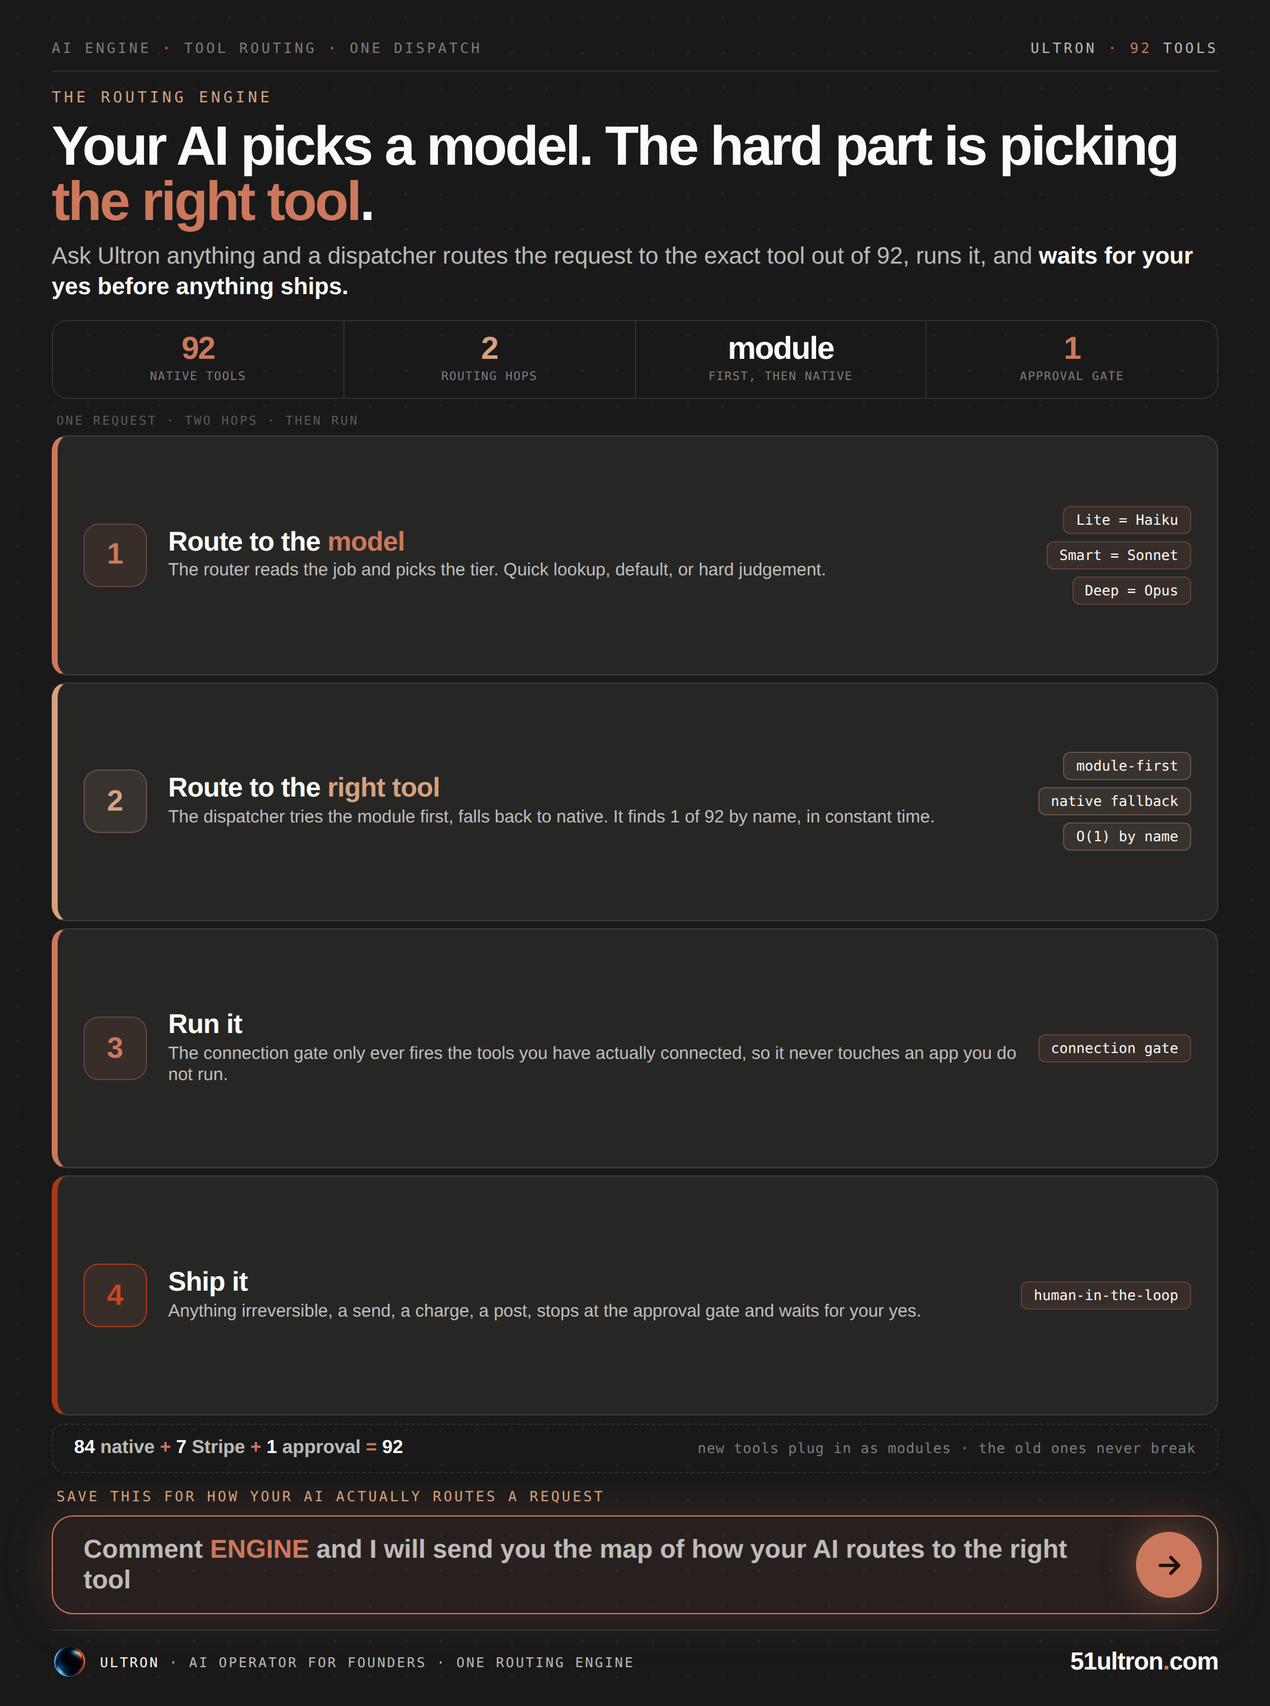
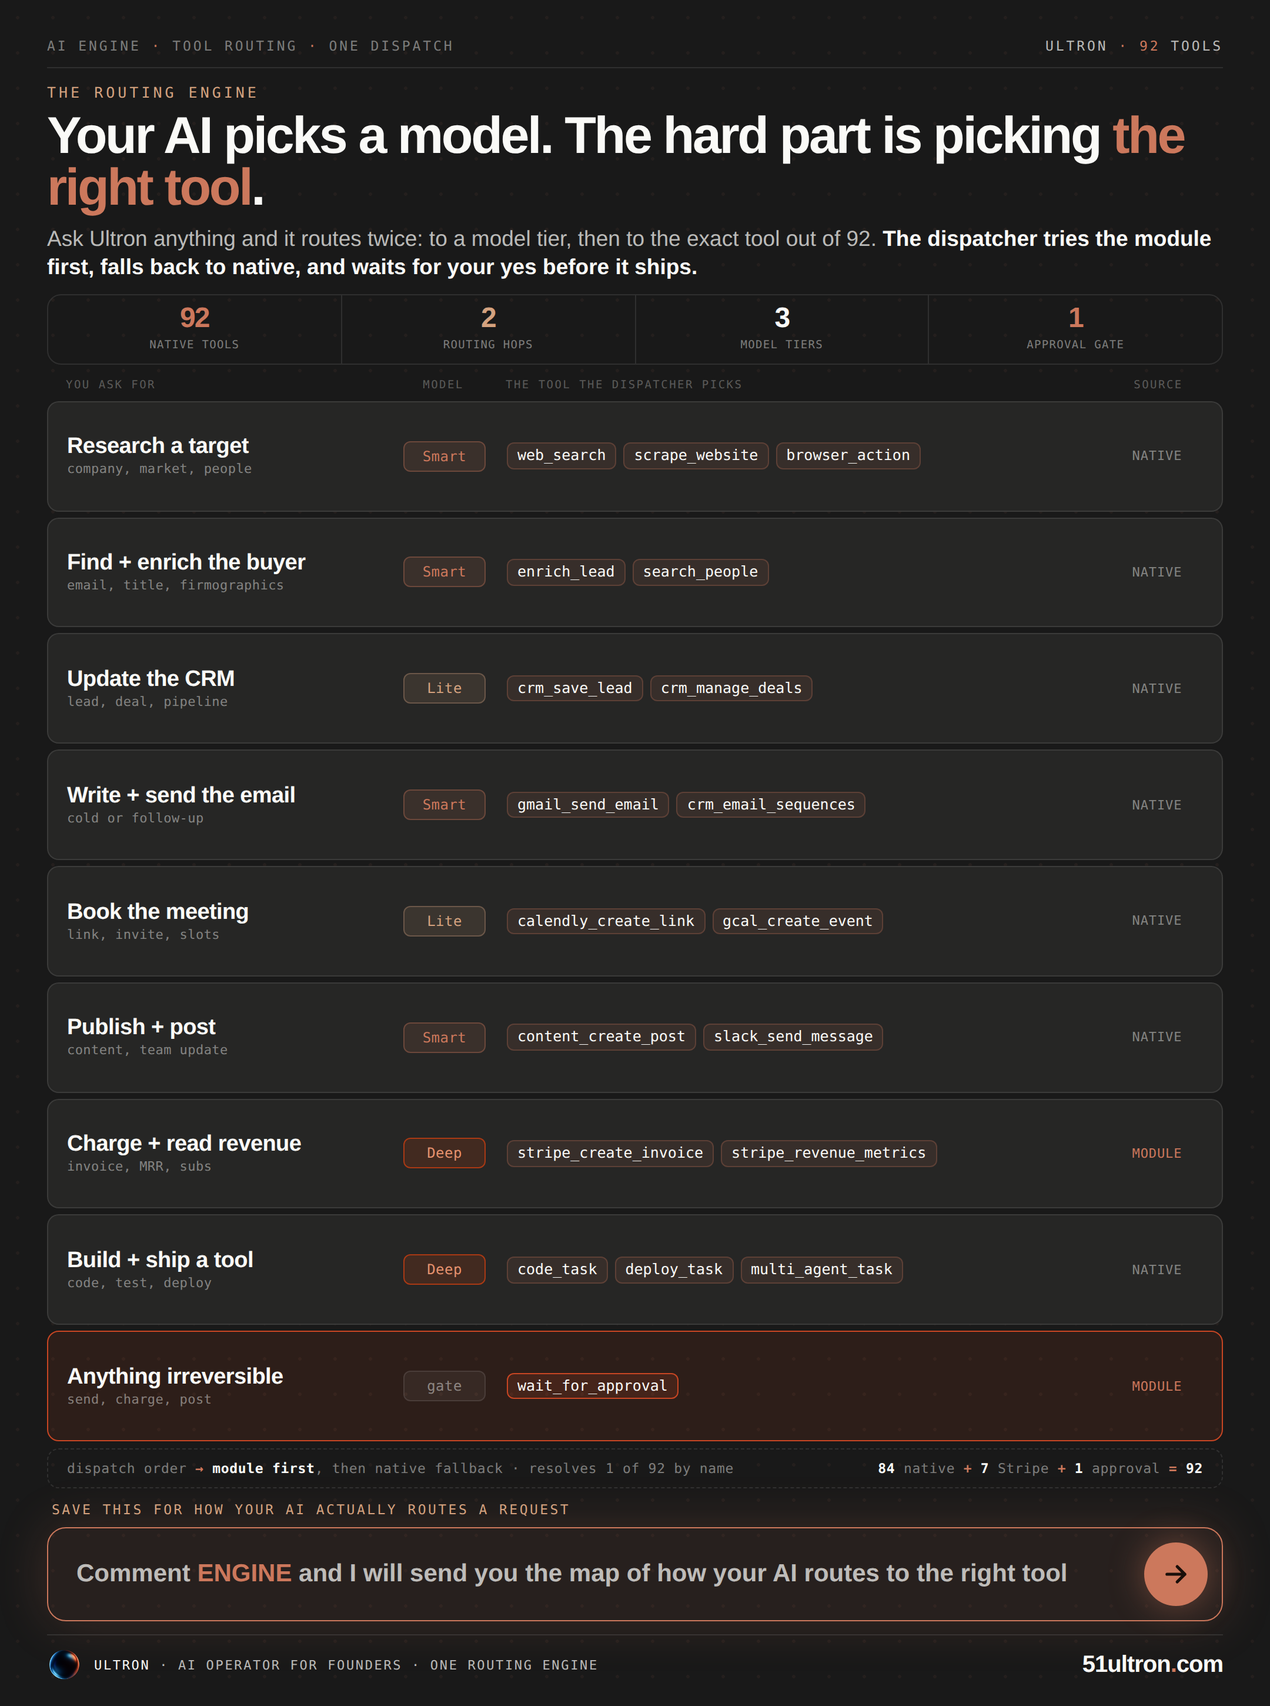
tool-engine: denser LinkedIn rebuild (packed 9-row routing table) + ALT sync

diff --git a/content/tool-engine-linkedin.html b/content/tool-engine-linkedin.html
@@ -2,61 +2,63 @@
 <title>The routing engine - LinkedIn 1080x1450</title>
 <style>
 @import 'https://fonts.googleapis.com/css2?family=DM+Sans:opsz,wght@9..40,400;9..40,500;9..40,600;9..40,700;9..40,800;9..40,900&family=DM+Mono:wght@400;500&display=swap';
-/* tool-engine - applies the best-performer formula (post 7473683676527071232: "Your AI tool sends your
-   prompt to a model" - 35 comments, hidden-mechanic hook + comment CTA). Topic = the NEXT layer of that
-   engine: tool routing. Your request -> a model -> the RIGHT tool of 92 (dispatcher: module-first, native
-   fallback) -> run (connection gate) -> ship (approval gate). Dense single-image reach-lane infographic.
-   Ultron brand. 1080x1450. BUDGET 1394: mast 28 + hero 196 + stats 70 + pipe 880 + cta 96 + ftr 50 */
-:root{--slate:#191919;--slate2:#262625;--ivory:#FAFAF7;--ink70:rgba(250,250,247,.72);--ink46:rgba(250,250,247,.46);
+/* tool-engine v2 - DENSE rebuild (v1 was airy: 4 tall pipeline cards). Dominant = a packed 9-row routing
+   table: you ask -> model tier (Lite/Smart/Deep) -> the exact tool the dispatcher picks -> module/native.
+   Every cell real. Applies the best-performer formula (hidden-mechanic hook + ENGINE comment CTA).
+   Ultron brand. 1080x1450. BUDGET 1394: mast 28 + hero 168 + stats 66 + table 936 + cta 92 + ftr 50 */
+:root{--slate:#191919;--slate2:#262625;--slate3:#2f2e2c;--ivory:#FAFAF7;--ink70:rgba(250,250,247,.72);--ink46:rgba(250,250,247,.46);
 --ink30:rgba(250,250,247,.30);--ink14:rgba(250,250,247,.14);--rule:rgba(250,250,247,.10);
 --book:#CC785C;--book-d:#C84623;--kraft:#D4A27F;--deep:#A93914;--cloud:#919180;}
 *{box-sizing:border-box;margin:0;padding:0;}
 body{background:#0d0d0d;display:flex;justify-content:center;padding:24px 0;font-family:'DM Sans',sans-serif;-webkit-font-smoothing:antialiased;}
-.frame{width:1080px;height:1450px;background:var(--slate);padding:34px 44px 22px;position:relative;overflow:hidden;color:var(--ivory);display:flex;flex-direction:column;}
+.frame{width:1080px;height:1450px;background:var(--slate);padding:32px 40px 20px;position:relative;overflow:hidden;color:var(--ivory);display:flex;flex-direction:column;}
 .frame::before{content:'';position:absolute;inset:0;pointer-events:none;z-index:0;background-image:radial-gradient(rgba(204,120,92,.06) 1.4px,transparent 1.5px);background-size:30px 30px;}
 .atm{position:absolute;inset:0;pointer-events:none;z-index:1;background:radial-gradient(ellipse 54% 22% at 90% -2%,rgba(204,120,92,.2) 0%,transparent 60%),radial-gradient(ellipse 48% 24% at 2% 102%,rgba(212,162,127,.1) 0%,transparent 60%);}
 .frame>*{position:relative;z-index:2;}
-.mast{flex-shrink:0;display:flex;align-items:center;justify-content:space-between;padding-bottom:12px;border-bottom:1px solid var(--rule);font-family:'DM Mono',monospace;font-size:12px;font-weight:500;letter-spacing:.18em;text-transform:uppercase;}
+.mast{flex-shrink:0;display:flex;align-items:center;justify-content:space-between;padding-bottom:11px;border-bottom:1px solid var(--rule);font-family:'DM Mono',monospace;font-size:11.5px;font-weight:500;letter-spacing:.17em;text-transform:uppercase;}
 .mast .ml{color:var(--ink46);}.mast .ml em{color:var(--book);font-style:normal;}
 .mast .mr{color:var(--ink70);}.mast .mr em{color:var(--book);font-style:normal;}
-.hero{flex-shrink:0;margin-top:15px;}
-.eye{font-family:'DM Mono',monospace;font-size:13px;font-weight:500;letter-spacing:.2em;text-transform:uppercase;color:var(--kraft);}
-.hook{margin-top:9px;font-weight:900;font-size:47px;line-height:1.0;letter-spacing:-1.8px;color:var(--ivory);}.hook em{color:var(--book);font-style:normal;}
-.sub{margin-top:11px;font-size:20px;font-weight:500;line-height:1.32;color:var(--ink70);max-width:986px;}.sub b{color:var(--ivory);font-weight:700;}
-.stats{flex-shrink:0;margin-top:14px;display:flex;border:1px solid var(--rule);border-radius:13px;overflow:hidden;}
-.stat{flex:1;padding:12px 14px;text-align:center;}.stat+.stat{border-left:1px solid var(--rule);}
-.stat b{display:block;font-weight:900;font-size:27px;line-height:.85;letter-spacing:-1px;}
+.hero{flex-shrink:0;margin-top:13px;}
+.eye{font-family:'DM Mono',monospace;font-size:12.5px;font-weight:500;letter-spacing:.2em;text-transform:uppercase;color:var(--kraft);}
+.hook{margin-top:8px;font-weight:900;font-size:44px;line-height:1.0;letter-spacing:-1.7px;color:var(--ivory);}.hook em{color:var(--book);font-style:normal;}
+.sub{margin-top:9px;font-size:18.5px;font-weight:500;line-height:1.28;color:var(--ink70);max-width:1000px;}.sub b{color:var(--ivory);font-weight:700;}
+.stats{flex-shrink:0;margin-top:12px;display:flex;border:1px solid var(--rule);border-radius:12px;overflow:hidden;}
+.stat{flex:1;padding:10px 12px;text-align:center;}.stat+.stat{border-left:1px solid var(--rule);}
+.stat b{display:block;font-weight:900;font-size:24px;line-height:.85;letter-spacing:-1px;}
 .stat.a b{color:var(--book);}.stat.b b{color:var(--kraft);}.stat.c b{color:var(--ivory);}.stat.d b{color:var(--book);}
-.stat span{font-family:'DM Mono',monospace;font-size:10px;font-weight:500;letter-spacing:.08em;text-transform:uppercase;color:var(--ink46);margin-top:7px;display:block;}
-/* DOMINANT: the 2-hop routing engine pipeline */
-.pipe{flex:1;min-height:0;margin-top:13px;display:flex;flex-direction:column;gap:6px;}
-.hopnote{flex-shrink:0;font-family:'DM Mono',monospace;font-size:10.5px;letter-spacing:.14em;text-transform:uppercase;color:var(--ink30);padding-left:4px;}
-.stg{flex:1;display:flex;align-items:center;gap:18px;border:1px solid var(--rule);border-left:5px solid var(--book);border-radius:13px;background:var(--slate2);padding:0 22px;min-height:0;overflow:hidden;}
-.stg.k{border-left-color:var(--kraft);}.stg.d{border-left-color:var(--deep);}
-.stg .num{flex-shrink:0;width:54px;height:54px;border-radius:13px;display:flex;align-items:center;justify-content:center;background:rgba(204,120,92,.1);border:1px solid rgba(204,120,92,.32);font-weight:900;font-size:25px;color:var(--book);}
-.stg.k .num{background:rgba(212,162,127,.1);border-color:rgba(212,162,127,.3);color:var(--kraft);}
-.stg.d .num{border-color:var(--deep);color:var(--book-d);}
-.stg .mid{flex:1;min-width:0;}
-.stg .t{font-size:23px;font-weight:800;color:var(--ivory);letter-spacing:-.4px;line-height:1.04;}
-.stg .t em{color:var(--book);font-style:normal;}.stg.k .t em{color:var(--kraft);}.stg.d .t em{color:var(--book-d);}
-.stg .d2{font-size:15px;font-weight:500;color:var(--ink70);margin-top:4px;line-height:1.22;}
-.stg .chips{flex-shrink:0;display:flex;flex-direction:column;gap:6px;align-items:flex-end;}
-.stg .chip{font-family:'DM Mono',monospace;font-size:12px;font-weight:500;color:var(--ivory);background:rgba(204,120,92,.1);border:1px solid rgba(204,120,92,.28);border-radius:6px;padding:5px 10px;line-height:1;white-space:nowrap;}
-.stg.k .chip{background:rgba(212,162,127,.1);border-color:rgba(212,162,127,.3);}
-.cat{flex-shrink:0;display:flex;align-items:center;justify-content:space-between;gap:14px;border:1px dashed var(--rule);border-radius:11px;padding:11px 18px;margin-top:1px;}
-.cat .ce{font-size:16px;font-weight:700;color:var(--ink70);}.cat .ce b{color:var(--ivory);font-weight:900;}.cat .ce em{color:var(--book);font-style:normal;font-weight:900;}
-.cat .cn{font-family:'DM Mono',monospace;font-size:12px;letter-spacing:.04em;color:var(--ink46);text-align:right;}
+.stat span{font-family:'DM Mono',monospace;font-size:9.5px;font-weight:500;letter-spacing:.07em;text-transform:uppercase;color:var(--ink46);margin-top:6px;display:block;}
+/* DENSE routing table */
+.rt{flex:1;min-height:0;margin-top:12px;display:flex;flex-direction:column;gap:5px;}
+.rth{flex-shrink:0;display:flex;align-items:center;gap:12px;padding:0 16px 3px;font-family:'DM Mono',monospace;font-size:9.5px;font-weight:500;letter-spacing:.13em;text-transform:uppercase;color:var(--ink30);}
+.c1{width:268px;flex-shrink:0;}.c2{width:82px;flex-shrink:0;text-align:center;}.c3{flex:1;min-width:0;}.c4{width:78px;flex-shrink:0;text-align:center;}
+.rtr{flex:1;display:flex;align-items:center;gap:12px;border:1px solid var(--rule);border-radius:10px;background:var(--slate2);padding:0 16px;min-height:0;overflow:hidden;}
+.rtr.gate{border-color:var(--book-d);background:rgba(200,70,35,.12);}
+.ask{width:268px;flex-shrink:0;font-size:19px;font-weight:800;color:var(--ivory);letter-spacing:-.3px;line-height:1.05;}
+.ask span{display:block;font-family:'DM Mono',monospace;font-size:11px;font-weight:400;color:var(--ink46);letter-spacing:.02em;margin-top:3px;text-transform:none;}
+.tier{width:82px;flex-shrink:0;display:flex;justify-content:center;}
+.tg{font-family:'DM Mono',monospace;font-size:12px;font-weight:500;padding:5px 0;width:70px;text-align:center;border-radius:6px;letter-spacing:.02em;}
+.tg.lite{color:var(--kraft);background:rgba(212,162,127,.12);border:1px solid rgba(212,162,127,.32);}
+.tg.smart{color:var(--book);background:rgba(204,120,92,.12);border:1px solid rgba(204,120,92,.34);}
+.tg.deep{color:#E5926F;background:rgba(169,57,20,.22);border:1px solid var(--deep);}
+.tg.none{color:var(--ink46);background:rgba(250,250,247,.05);border:1px solid var(--rule);}
+.tools{flex:1;min-width:0;display:flex;flex-wrap:wrap;gap:5px 6px;align-content:center;}
+.tt{font-family:'DM Mono',monospace;font-size:12.5px;font-weight:500;color:var(--ivory);background:rgba(204,120,92,.1);border:1px solid rgba(204,120,92,.26);border-radius:6px;padding:4px 8px;line-height:1;white-space:nowrap;}
+.rtr.gate .tt{background:rgba(200,70,35,.16);border-color:var(--book-d);}
+.src{width:78px;flex-shrink:0;text-align:center;font-family:'DM Mono',monospace;font-size:11px;font-weight:500;letter-spacing:.04em;text-transform:uppercase;}
+.src.nat{color:var(--ink46);}.src.mod{color:var(--book);}
+.disp{flex-shrink:0;display:flex;align-items:center;justify-content:space-between;gap:14px;border:1px dashed var(--rule);border-radius:10px;padding:9px 16px;margin-top:1px;font-family:'DM Mono',monospace;font-size:11.5px;letter-spacing:.03em;color:var(--ink46);}
+.disp b{color:var(--ivory);font-weight:700;}.disp em{color:var(--book);font-style:normal;font-weight:700;}
 /* cta */
-.ctawrap{flex-shrink:0;margin-top:13px;}
-.savel{font-family:'DM Mono',monospace;font-size:12px;font-weight:500;letter-spacing:.16em;text-transform:uppercase;color:var(--kraft);margin-bottom:9px;padding-left:4px;}
-.cta{display:flex;align-items:center;gap:16px;border:1.5px solid var(--book);border-radius:18px;background:rgba(204,120,92,.08);padding:13px 13px 13px 26px;box-shadow:0 0 44px rgba(204,120,92,.2);}
-.cta .ph{flex:1;font-size:22px;font-weight:600;color:var(--ink70);line-height:1.2;}.cta .ph b{color:var(--book);font-weight:900;}
-.cta .send{width:56px;height:56px;border-radius:50%;background:var(--book);flex-shrink:0;display:flex;align-items:center;justify-content:center;box-shadow:0 0 30px rgba(204,120,92,.45);}
-.cta .send svg{width:27px;height:27px;stroke:#1a0f0a;stroke-width:2.4;fill:none;stroke-linecap:round;stroke-linejoin:round;}
-.ftr{flex-shrink:0;margin-top:13px;padding-top:12px;border-top:1px solid var(--rule);display:flex;align-items:center;justify-content:space-between;gap:16px;}
-.fl2{display:flex;align-items:center;gap:11px;min-width:0;}.flogo{width:30px;height:30px;border-radius:50%;object-fit:cover;flex-shrink:0;}
-.ftx{font-family:'DM Mono',monospace;font-size:11.5px;font-weight:400;letter-spacing:.13em;text-transform:uppercase;color:var(--ink70);white-space:nowrap;}.ftx b{color:var(--ivory);font-weight:500;}
-.furl{font-weight:900;font-size:21px;letter-spacing:-.5px;color:var(--ivory);}.furl em{color:var(--book);font-style:normal;}
+.ctawrap{flex-shrink:0;margin-top:11px;}
+.savel{font-family:'DM Mono',monospace;font-size:11.5px;font-weight:500;letter-spacing:.15em;text-transform:uppercase;color:var(--kraft);margin-bottom:8px;padding-left:4px;}
+.cta{display:flex;align-items:center;gap:15px;border:1.5px solid var(--book);border-radius:16px;background:rgba(204,120,92,.08);padding:12px 12px 12px 24px;box-shadow:0 0 44px rgba(204,120,92,.2);}
+.cta .ph{flex:1;font-size:21px;font-weight:600;color:var(--ink70);line-height:1.2;}.cta .ph b{color:var(--book);font-weight:900;}
+.cta .send{width:54px;height:54px;border-radius:50%;background:var(--book);flex-shrink:0;display:flex;align-items:center;justify-content:center;box-shadow:0 0 30px rgba(204,120,92,.45);}
+.cta .send svg{width:26px;height:26px;stroke:#1a0f0a;stroke-width:2.4;fill:none;stroke-linecap:round;stroke-linejoin:round;}
+.ftr{flex-shrink:0;margin-top:11px;padding-top:11px;border-top:1px solid var(--rule);display:flex;align-items:center;justify-content:space-between;gap:16px;}
+.fl2{display:flex;align-items:center;gap:11px;min-width:0;}.flogo{width:29px;height:29px;border-radius:50%;object-fit:cover;flex-shrink:0;}
+.ftx{font-family:'DM Mono',monospace;font-size:11px;font-weight:400;letter-spacing:.12em;text-transform:uppercase;color:var(--ink70);white-space:nowrap;}.ftx b{color:var(--ivory);font-weight:500;}
+.furl{font-weight:900;font-size:20px;letter-spacing:-.5px;color:var(--ivory);}.furl em{color:var(--book);font-style:normal;}
 </style></head>
 <body>
 <div class="frame" id="artifact"><div class="atm"></div>
@@ -64,21 +66,28 @@ body{background:#0d0d0d;display:flex;justify-content:center;padding:24px 0;font-
   <div class="hero">
     <div class="eye">The routing engine</div>
     <div class="hook">Your AI picks a model. The hard part is picking <em>the right tool</em>.</div>
-    <div class="sub">Ask Ultron anything and a dispatcher routes the request to the exact tool out of 92, runs it, and <b>waits for your yes before anything ships.</b></div>
+    <div class="sub">Ask Ultron anything and it routes twice: to a model tier, then to the exact tool out of 92. <b>The dispatcher tries the module first, falls back to native, and waits for your yes before it ships.</b></div>
   </div>
   <div class="stats">
     <div class="stat a"><b>92</b><span>native tools</span></div>
     <div class="stat b"><b>2</b><span>routing hops</span></div>
-    <div class="stat c"><b>module</b><span>first, then native</span></div>
+    <div class="stat c"><b>3</b><span>model tiers</span></div>
     <div class="stat d"><b>1</b><span>approval gate</span></div>
   </div>
-  <div class="pipe">
-    <div class="hopnote">One request &middot; two hops &middot; then run</div>
-    <div class="stg"><span class="num">1</span><div class="mid"><div class="t">Route to the <em>model</em></div><div class="d2">The router reads the job and picks the tier. Quick lookup, default, or hard judgement.</div></div><div class="chips"><span class="chip">Lite = Haiku</span><span class="chip">Smart = Sonnet</span><span class="chip">Deep = Opus</span></div></div>
-    <div class="stg k"><span class="num">2</span><div class="mid"><div class="t">Route to the <em>right tool</em></div><div class="d2">The dispatcher tries the module first, falls back to native. It finds 1 of 92 by name, in constant time.</div></div><div class="chips"><span class="chip">module-first</span><span class="chip">native fallback</span><span class="chip">O(1) by name</span></div></div>
-    <div class="stg"><span class="num">3</span><div class="mid"><div class="t">Run it</div><div class="d2">The connection gate only ever fires the tools you have actually connected, so it never touches an app you do not run.</div></div><div class="chips"><span class="chip">connection gate</span></div></div>
-    <div class="stg d"><span class="num">4</span><div class="mid"><div class="t">Ship it</div><div class="d2">Anything irreversible, a send, a charge, a post, stops at the approval gate and waits for your yes.</div></div><div class="chips"><span class="chip">human-in-the-loop</span></div></div>
-    <div class="cat"><span class="ce"><b>84</b> native <em>+</em> <b>7</b> Stripe <em>+</em> <b>1</b> approval <em>=</em> <b>92</b></span><span class="cn">new tools plug in as modules &middot; the old ones never break</span></div>
+  <div class="rt">
+    <div class="rth"><span class="c1">You ask for</span><span class="c2">Model</span><span class="c3">The tool the dispatcher picks</span><span class="c4">Source</span></div>
+
+    <div class="rtr"><div class="ask">Research a target<span>company, market, people</span></div><div class="tier"><span class="tg smart">Smart</span></div><div class="tools"><span class="tt">web_search</span><span class="tt">scrape_website</span><span class="tt">browser_action</span></div><div class="src nat">native</div></div>
+    <div class="rtr"><div class="ask">Find + enrich the buyer<span>email, title, firmographics</span></div><div class="tier"><span class="tg smart">Smart</span></div><div class="tools"><span class="tt">enrich_lead</span><span class="tt">search_people</span></div><div class="src nat">native</div></div>
+    <div class="rtr"><div class="ask">Update the CRM<span>lead, deal, pipeline</span></div><div class="tier"><span class="tg lite">Lite</span></div><div class="tools"><span class="tt">crm_save_lead</span><span class="tt">crm_manage_deals</span></div><div class="src nat">native</div></div>
+    <div class="rtr"><div class="ask">Write + send the email<span>cold or follow-up</span></div><div class="tier"><span class="tg smart">Smart</span></div><div class="tools"><span class="tt">gmail_send_email</span><span class="tt">crm_email_sequences</span></div><div class="src nat">native</div></div>
+    <div class="rtr"><div class="ask">Book the meeting<span>link, invite, slots</span></div><div class="tier"><span class="tg lite">Lite</span></div><div class="tools"><span class="tt">calendly_create_link</span><span class="tt">gcal_create_event</span></div><div class="src nat">native</div></div>
+    <div class="rtr"><div class="ask">Publish + post<span>content, team update</span></div><div class="tier"><span class="tg smart">Smart</span></div><div class="tools"><span class="tt">content_create_post</span><span class="tt">slack_send_message</span></div><div class="src nat">native</div></div>
+    <div class="rtr"><div class="ask">Charge + read revenue<span>invoice, MRR, subs</span></div><div class="tier"><span class="tg deep">Deep</span></div><div class="tools"><span class="tt">stripe_create_invoice</span><span class="tt">stripe_revenue_metrics</span></div><div class="src mod">module</div></div>
+    <div class="rtr"><div class="ask">Build + ship a tool<span>code, test, deploy</span></div><div class="tier"><span class="tg deep">Deep</span></div><div class="tools"><span class="tt">code_task</span><span class="tt">deploy_task</span><span class="tt">multi_agent_task</span></div><div class="src nat">native</div></div>
+    <div class="rtr gate"><div class="ask">Anything irreversible<span>send, charge, post</span></div><div class="tier"><span class="tg none">gate</span></div><div class="tools"><span class="tt">wait_for_approval</span></div><div class="src mod">module</div></div>
+
+    <div class="disp"><span>dispatch order <em>&rarr;</em> <b>module first</b>, then native fallback &middot; resolves 1 of 92 by name</span><span><b>84</b> native <em>+</em> <b>7</b> Stripe <em>+</em> <b>1</b> approval <em>=</em> <b>92</b></span></div>
   </div>
   <div class="ctawrap">
     <div class="savel">Save this for how your AI actually routes a request</div>

diff --git a/content/tool-engine-linkedin-caption.md b/content/tool-engine-linkedin-caption.md
@@ -37,7 +37,7 @@ Comment ENGINE and I will send you the map of how your AI routes a request to th
 
 ## ALT TEXT
 
-Dark editorial infographic on a slate background with book-orange accents and the Ultron logo. The headline reads 'Your AI picks a model. The hard part is picking the right tool,' with the right tool in book-orange. A four-cell stat strip shows 92 native tools, 2 routing hops, module first then native, and 1 approval gate. Below sits a four-stage routing pipeline: step one route to the model, with chips Lite equals Haiku, Smart equals Sonnet, Deep equals Opus; step two route to the right tool, with chips module-first, native fallback, and resolve by name; step three run it behind a connection gate; step four ship it through a human-in-the-loop approval gate. A dashed strip totals 84 native plus 7 Stripe plus 1 approval equals 92 and notes new tools plug in as modules. Closes with a Comment ENGINE call to action and the Ultron logo.
+Dark editorial infographic on a slate background with book-orange accents and the Ultron logo. The headline reads 'Your AI picks a model. The hard part is picking the right tool,' with the right tool in book-orange. A four-cell stat strip shows 92 native tools, 2 routing hops, 3 model tiers, and 1 approval gate. Below sits a dense nine-row routing table with columns for what you ask, the model tier, the tool the dispatcher picks, and the source. Each row routes a request to a tier (Lite, Smart, or Deep) and to real named tools: research a target to web_search and scrape_website, update the CRM to crm_save_lead, charge and read revenue to stripe_create_invoice on the Stripe module, and a highlighted final row sends anything irreversible to wait_for_approval. A footer line reads module first then native fallback, 84 native plus 7 Stripe plus 1 approval equals 92. Closes with a Comment ENGINE call to action and the Ultron logo.
 
 ## FIRST COMMENT
 
